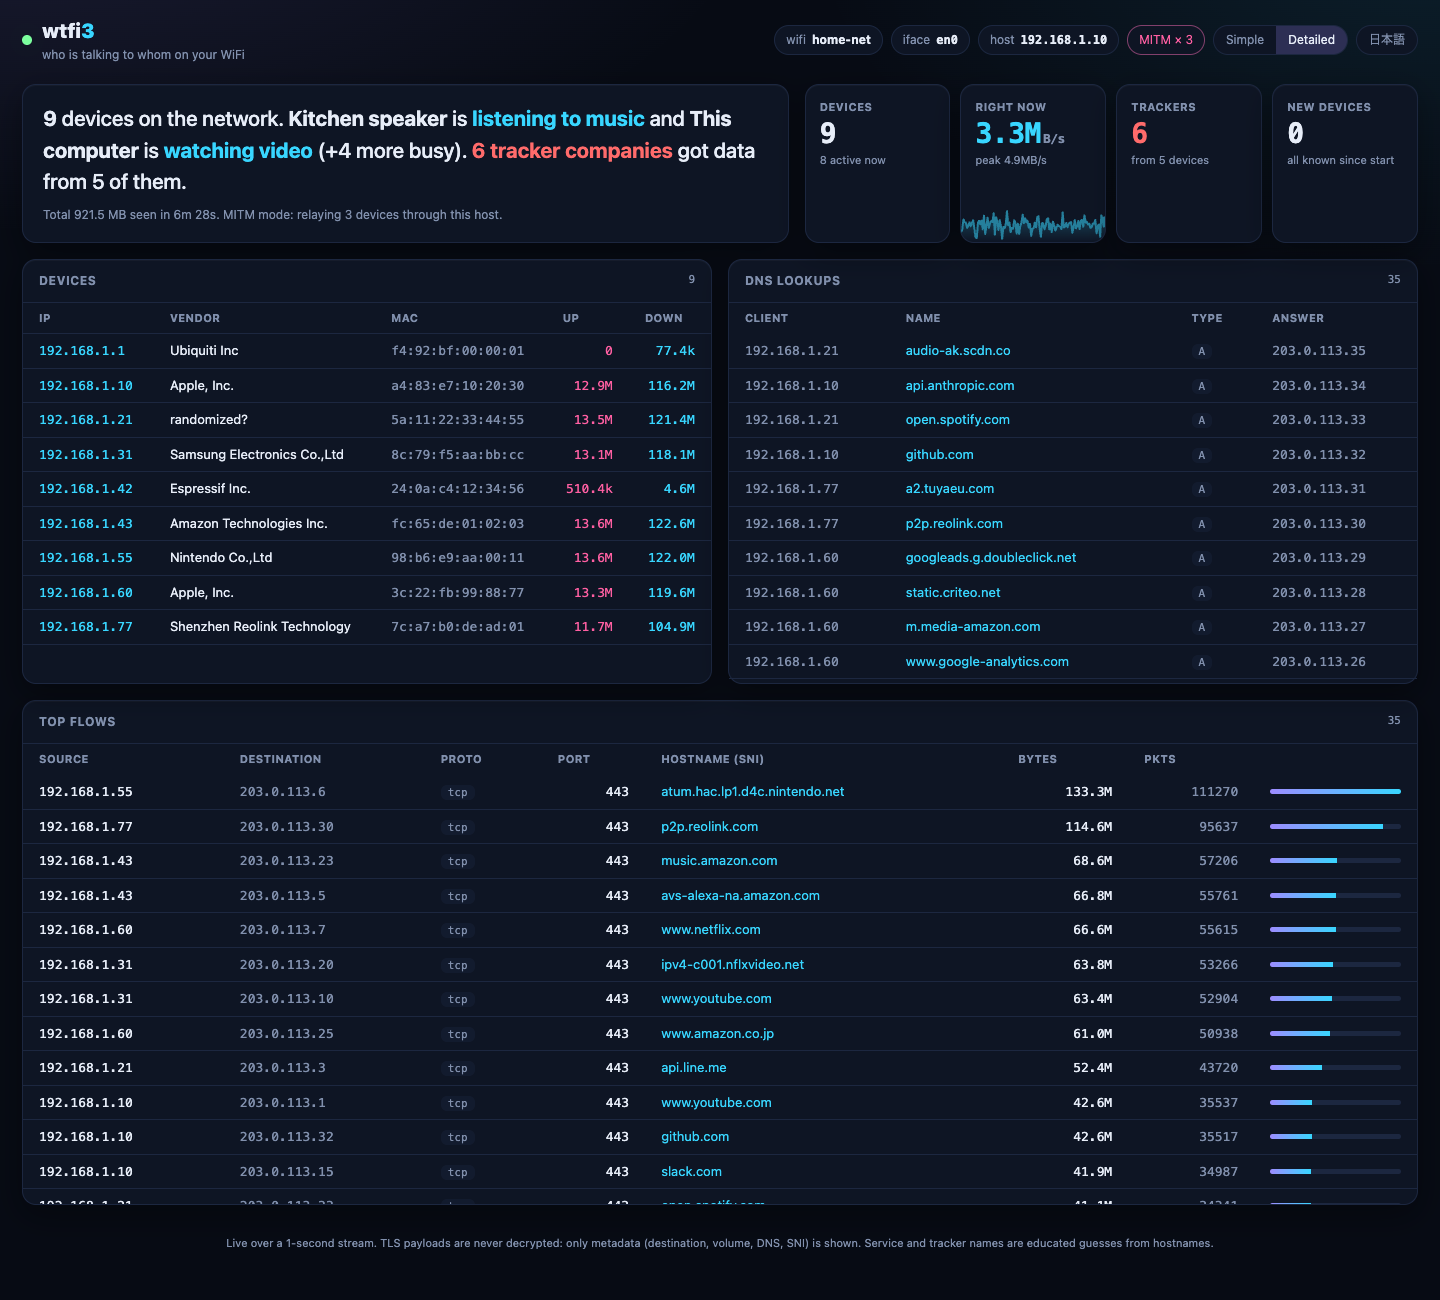
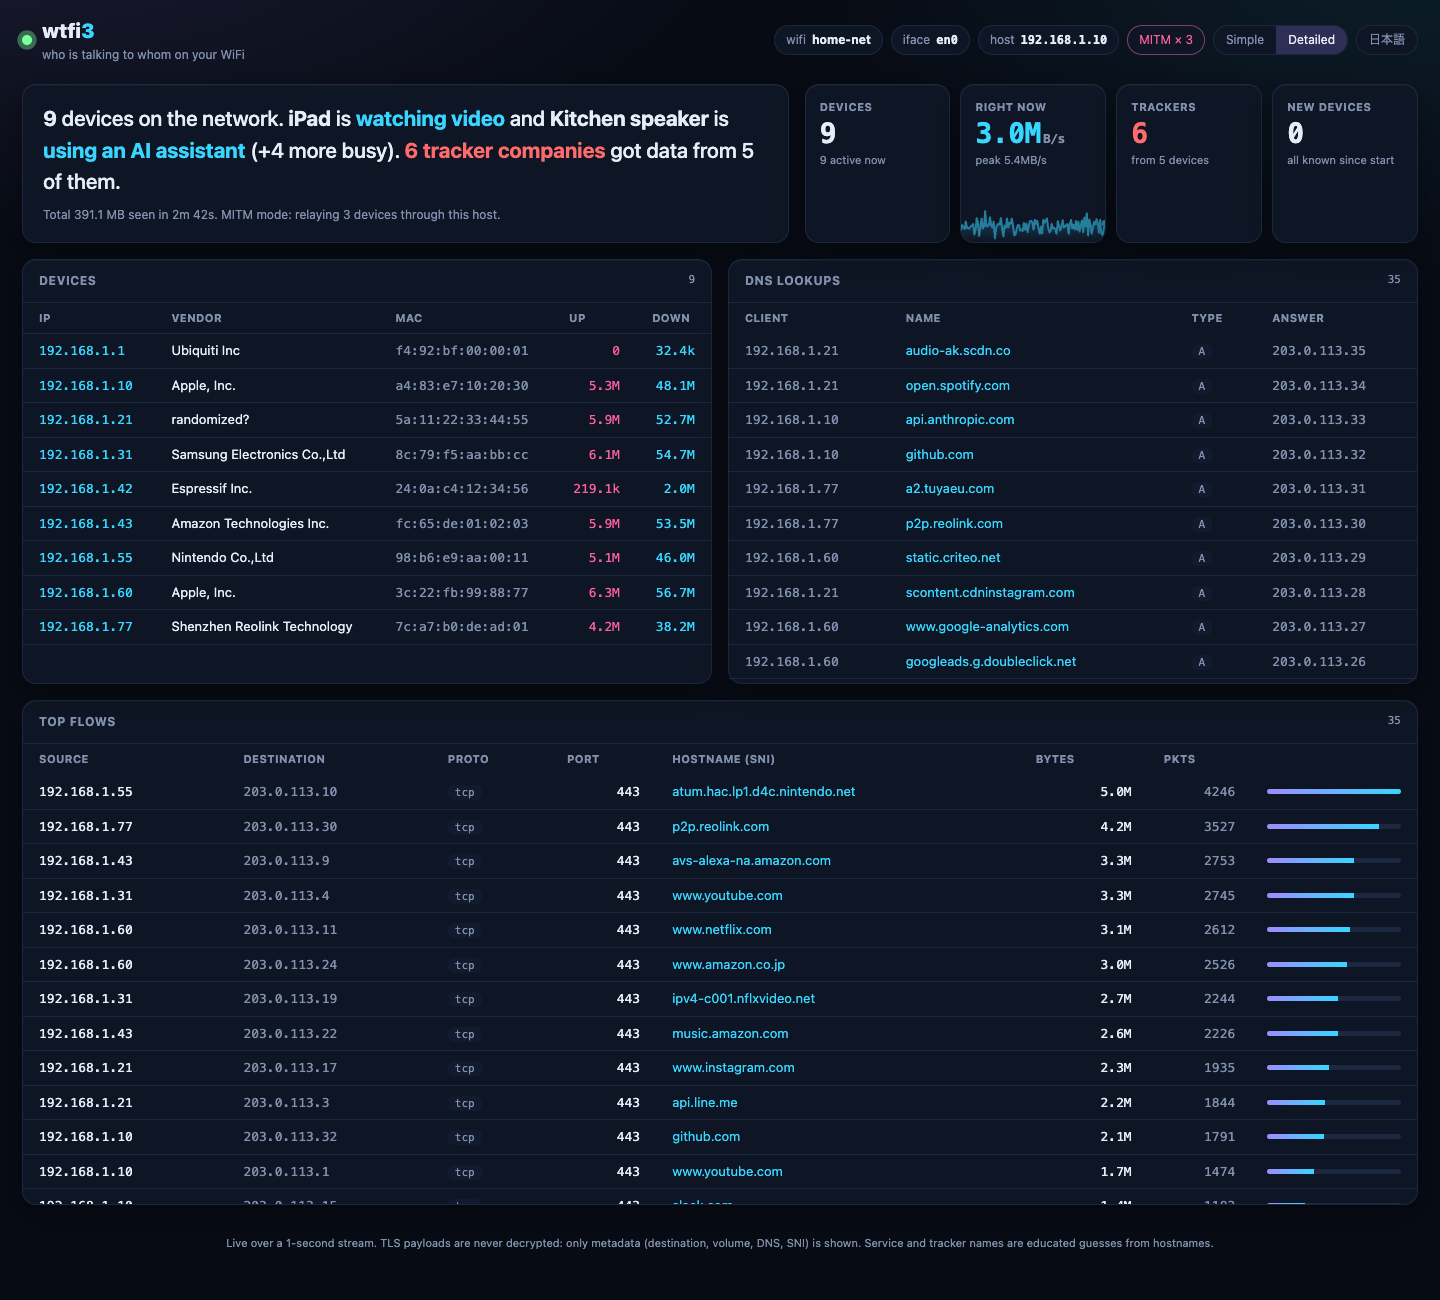
fix(web): diff per flow, keep confirmed trackers, and time rates by the server clock

diff --git a/internal/web/index.html b/internal/web/index.html
@@ -13,6 +13,8 @@
     --down:#38d6ff; --up:#ff5fa2; --live:#7cff9e; --warn:#ffb547; --bad:#ff6b6b; --ok:#4ade80;
     --accent:#9d8cff; --glow:rgba(56,214,255,.35);
     --radius:14px; --shadow:0 1px 0 rgba(255,255,255,.03) inset, 0 10px 30px rgba(0,0,0,.35);
+    --t-phone:#38d6ff; --t-tablet:#5ac8fa; --t-laptop:#9d8cff; --t-tv:#ff7eb6; --t-speaker:#4ade80; --t-iot:#ffb547;
+    --t-camera:#ff6b6b; --t-console:#c084fc; --t-router:#94a3b8; --t-printer:#94a3b8; --t-unknown:#8190ad;
     --mono:ui-monospace,"SF Mono","JetBrains Mono",Menlo,Consolas,monospace;
   }
   @media (prefers-color-scheme: light){
@@ -23,6 +25,8 @@
       --down:#0089bf; --up:#d02f76; --live:#14a345; --warn:#bd7100; --bad:#d63031; --ok:#15924a;
       --accent:#5a48d6; --glow:rgba(0,137,191,.25);
       --shadow:0 1px 2px rgba(16,24,40,.05), 0 8px 24px rgba(16,24,40,.06);
+      --t-phone:#0284c7; --t-tablet:#0369a1; --t-laptop:#6d5ce0; --t-tv:#db2777; --t-speaker:#15803d; --t-iot:#b45309;
+      --t-camera:#dc2626; --t-console:#9333ea; --t-router:#64748b; --t-printer:#64748b; --t-unknown:#64748b;
     }
   }
   *{box-sizing:border-box}
@@ -318,8 +322,8 @@ const I18N = {
     guessed:"guessed from vendor and traffic; click to change",
     g_none:"0 trackers", g_one:"1 tracker", g_many:"{n} trackers",
     trk_h:"Phones home to", trk_h_dns:"Looked up (no traffic seen)",
-    tracker_help:"Third-party analytics, ad, attribution, crash, and IoT-telemetry endpoints this device contacted, named by operator from DNS/SNI. Faded chips were only resolved by DNS, not confirmed by traffic. TLS content is never decrypted.",
-    dns_only:"DNS only",
+    tracker_help:"Third-party analytics, ad, attribution, crash, and IoT-telemetry endpoints this device contacted, named by operator from DNS/SNI. Byte counts are what the device sent (↑). Faded chips were only resolved by DNS, not confirmed by traffic. TLS content is never decrypted.",
+    dns_only:"DNS only", sent:"{v} sent",
     lookups:"DNS lookups", flows:"Top flows",
     th_ip:"IP", th_vendor:"vendor", th_mac:"MAC", th_up:"up", th_down:"down",
     th_client:"client", th_name:"name", th_type:"type", th_answer:"answer",
@@ -376,8 +380,8 @@ const I18N = {
     guessed:"メーカーと通信内容からの推測。クリックで変更",
     g_none:"トラッカー 0", g_one:"トラッカー 1", g_many:"トラッカー {n}",
     trk_h:"送信先トラッカー", trk_h_dns:"名前解決のみ（通信は未観測）",
-    tracker_help:"この端末が接続したサードパーティの解析・広告・アトリビューション・クラッシュ・IoT テレメトリのエンドポイント。DNS/SNI から運営者名で表示。薄いものは名前解決のみで通信は未確認。TLS の中身は復号しません。",
-    dns_only:"名前解決のみ",
+    tracker_help:"この端末が接続したサードパーティの解析・広告・アトリビューション・クラッシュ・IoT テレメトリのエンドポイント。DNS/SNI から運営者名で表示。バイト数は端末が送った量（↑）。薄いものは名前解決のみで通信は未確認。TLS の中身は復号しません。",
+    dns_only:"名前解決のみ", sent:"{v} 送信",
     lookups:"DNS名前解決", flows:"フロー上位",
     th_ip:"IP", th_vendor:"メーカー", th_mac:"MAC", th_up:"上り", th_down:"下り",
     th_client:"端末", th_name:"名前", th_type:"種別", th_answer:"応答",
@@ -534,8 +538,7 @@ const CATCOLOR = {video:"#ff5c8a",shopping:"#f59e0b",email:"#6c8cff",social:"#a7
 // Coarse types in the spirit of Fing's device groups. Icons are hand-drawn
 // strokes (no third-party icon set or brand marks).
 const TYPES = ["phone","tablet","laptop","tv","speaker","iot","camera","console","router","printer","unknown"];
-const TYPECOLOR = {phone:"#38d6ff",tablet:"#5ac8fa",laptop:"#9d8cff",tv:"#ff7eb6",speaker:"#4ade80",iot:"#ffb547",
-  camera:"#ff6b6b",console:"#c084fc",router:"#94a3b8",printer:"#94a3b8",unknown:"#8190ad"};
+const TYPECOLOR = Object.fromEntries(TYPES.map(x=>[x,`var(--t-${x})`])); // themed in CSS
 const ICON = {
   phone:'<rect x="7" y="2.5" width="10" height="19" rx="2.5"/><path d="M11 18.5h2"/>',
   tablet:'<rect x="4.5" y="3" width="15" height="18" rx="2"/><path d="M11 18h2"/>',
@@ -601,17 +604,22 @@ let view = (()=>{ try{ return localStorage.getItem("wtfi3_view")||"simple"; }cat
 const T = () => I18N[lang];
 
 const HIST = {};      // ip -> [{t, cat|null}] dominant category per tick, last 60
-const PREVCAT = {};   // ip -> {cat: cumulative bytes} at previous tick
-const DPREV = {};     // ip -> {tx, rx, t}
-const EDGEPREV = {};  // edge key -> cumulative bytes at previous tick
+const DPREV = {};     // ip -> {tx, rx, up} at previous tick (up = server uptime)
+let FPREV = {};       // flow key -> bytes at previous tick, for per-flow deltas
 const EDGEHOT = {};   // edge key -> ms timestamp of the last tick it moved bytes
+const CONF = {};      // ip -> {tracker label: {kind, bytes}}: confirmed contacts, sticky
 const ACTLAST = {};   // ip|cat -> ms timestamp the category last moved bytes
 const SEEN = {dev:{}, trk:{}};
 const FEED = [];      // {id, t, kind, key, p}
 let feedSeq = 0, feedShown = 0, tickN = 0, lastSpike = 0, openWarned = false;
-let LAST = null, MODEL = null, HOLD = false, focusKey = null, lastMsg = 0, ORDER = [];
+let LAST = null, MODEL = null, holdSince = 0, focusKey = null, lastMsg = 0, ORDER = [];
 const HIST_MAX = 60;
 
+function baseName(d, selfIP, gw){
+  if(d.ip===selfIP) return T().this_dev;
+  if(d.ip===gw) return T().router;
+  return d.vendor && !d.vendor.startsWith("randomized") && !/^[0-9a-f:]+$/i.test(d.vendor) ? d.vendor : T().unknown_dev;
+}
 function storeSet(obj, key, val, name){ if(val) obj[key]=val; else delete obj[key]; save(name, obj); }
 
 // ---- model -------------------------------------------------------------------------
@@ -624,53 +632,68 @@ function buildModel(s){
     devs[d.ip]={ip:d.ip, mac:d.mac||"", vendor:d.vendor||"", tx:d.tx_bytes||0, rx:d.rx_bytes||0, isnew:!!d.new,
       services:{}, cats:{}, trackers:{}};
   });
-  const add=(ip, host, bytes)=>{
+  // moved is the bytes this flow carried since the previous tick. The snapshot
+  // holds only the top flows and evicts idle ones, so comparing totals would
+  // fire whenever a flow re-enters the list; per-flow deltas do not.
+  const add=(ip, host, bytes, moved)=>{
     const d=devs[ip];
     if(!d||!host) return; // only attribute to known LAN devices
     bytes=bytes||0;
     const {service,cat}=classify(host), sk=cat+"|"+service;
     const tr=trackerOf(host);
     // A tracker host is listed once, under trackers, not again as a service chip.
-    if(tr){ const t=d.trackers[tr.label]||(d.trackers[tr.label]={kind:tr.kind,bytes:0}); t.bytes+=bytes; }
+    if(tr){
+      const t=d.trackers[tr.label]||(d.trackers[tr.label]={kind:tr.kind,bytes:0}); t.bytes+=bytes;
+      if(bytes>0){
+        const c=CONF[ip]||(CONF[ip]={}), k=c[tr.label]||(c[tr.label]={kind:tr.kind,bytes:0});
+        k.bytes=Math.max(k.bytes, t.bytes);
+      }
+    }
     else {
       const sv=d.services[sk]||(d.services[sk]={service,cat,bytes:0});
       sv.bytes+=bytes;
     }
-    const c=d.cats[cat]||(d.cats[cat]={bytes:0});
-    c.bytes+=bytes;
+    const c=d.cats[cat]||(d.cats[cat]={bytes:0,moved:0});
+    c.bytes+=bytes; c.moved+=moved;
     // A tracker host becomes a tracker node on the map; everything else a service node.
     const nk = tr ? "T:"+tr.label : "S:"+sk;
     const n=nodes[nk]||(nodes[nk]={key:nk, label:tr?tr.label:service, cat:tr?"tracker":cat, trk:!!tr, cum:0});
     n.cum+=bytes;
     const ek=ip+"|"+nk;
-    const e=edges[ek]||(edges[ek]={key:ek, ip, node:nk, cum:0});
-    e.cum+=bytes;
+    const e=edges[ek]||(edges[ek]={key:ek, ip, node:nk, cum:0, moved:0});
+    e.cum+=bytes; e.moved+=moved;
   };
-  (s.flows||[]).forEach(f=>{ if(f.sni) add(f.src, f.sni, f.bytes); });
-  (s.dns||[]).forEach(e=>add(e.client, e.name, 0));
+  const fnext={};
+  (s.flows||[]).forEach(f=>{
+    const p=FPREV[f.key], moved=p===undefined ? 0 : Math.max(0, f.bytes-p);
+    fnext[f.key]=f.bytes;
+    if(f.sni) add(f.src, f.sni, f.bytes, moved);
+  });
+  FPREV=fnext; // rebuilt each tick, so it never outgrows the snapshot
+  (s.dns||[]).forEach(e=>add(e.client, e.name, 0, 0));
 
-  // Edge liveness: a tick in which an edge's cumulative bytes grew marks it hot.
+  // Edge liveness: a tick in which an edge carried bytes marks it hot.
   Object.values(edges).forEach(e=>{
-    const prev=EDGEPREV[e.key];
-    if(prev!==undefined && e.cum>prev) EDGEHOT[e.key]=now;
-    EDGEPREV[e.key]=e.cum;
+    if(e.moved>0) EDGEHOT[e.key]=now;
     e.hotAge = EDGEHOT[e.key] ? now-EDGEHOT[e.key] : Infinity;
   });
+  Object.keys(EDGEHOT).forEach(k=>{ if(!edges[k]) delete EDGEHOT[k]; });
 
   const list=Object.values(devs).map(d=>{
     const nickKey=(d.mac && /[0-9a-f]{2}:/i.test(d.mac)) ? d.mac : d.ip;
-    const base = d.ip===selfIP ? T().this_dev : d.ip===gw ? T().router
-      : (d.vendor && !d.vendor.startsWith("randomized") && !/^[0-9a-f:]+$/i.test(d.vendor) ? d.vendor : T().unknown_dev);
     d.nickKey=nickKey;
-    d.name=NICK[nickKey]||base;
+    d.name=NICK[nickKey]||baseName(d, selfIP, gw);
     d.type=TYPEOVR[nickKey]||guessType(d, selfIP, gw);
     d.guessed=!TYPEOVR[nickKey];
-    // live rate
-    const p=DPREV[d.ip], dt=p?Math.max(.5,(now-p.t)/1000):1;
+    // live rate, timed by the server's clock so a late SSE message does not
+    // read as a burst
+    const up=s.uptime_sec||0, p=DPREV[d.ip], dt=p?Math.max(.5, up-p.up):1;
     d.rateRx = p ? Math.max(0,(d.rx-p.rx)/dt) : 0;
     d.rateTx = p ? Math.max(0,(d.tx-p.tx)/dt) : 0;
-    DPREV[d.ip]={tx:d.tx, rx:d.rx, t:now};
-    d.confirmed=Object.keys(d.trackers).filter(l=>d.trackers[l].bytes>0);
+    DPREV[d.ip]={tx:d.tx, rx:d.rx, up};
+    // Confirmed trackers stay counted after their flow is evicted from the snapshot.
+    d.conf=CONF[d.ip]||{};
+    d.confirmed=Object.keys(d.conf);
     return d;
   });
   return {list, byIP:devs, nodes, edges, selfIP, gw};
@@ -681,19 +704,15 @@ function buildModel(s){
 function updateHistory(m){
   const t=Date.now();
   m.list.forEach(d=>{
-    const prev=PREVCAT[d.ip], cur={};
     let best=null, bestDelta=0;
     d.moving=[];
     Object.keys(d.cats).forEach(c=>{
-      cur[c]=d.cats[c].bytes;
-      if(!prev) return;
-      const delta=cur[c]-(prev[c]||0);
+      const delta=d.cats[c].moved;
       if(delta>0 && !NOISE.has(c)){
         d.moving.push(c);
         if(delta>bestDelta){ bestDelta=delta; best=c; }
       }
     });
-    PREVCAT[d.ip]=cur;
     const h=HIST[d.ip]||(HIST[d.ip]=[]);
     h.push({t, cat:best});
     if(h.length>HIST_MAX) h.splice(0,h.length-HIST_MAX);
@@ -903,7 +922,7 @@ function renderMap(m){
     const sub = hot ? `↓${fmtB(d.rateRx)} ↑${fmtB(d.rateTx)}` : T().type[d.type];
     return `<g class="node${hot?" hot":""}" data-k="${esc(d.ip)}" data-dev="1">
       <circle class="ring" cx="${xL}" cy="${y}" r="9" style="stroke:${TYPECOLOR[d.type]};animation-delay:${phase}s"/>
-      <circle class="core" cx="${xL}" cy="${y}" r="8" fill="${TYPECOLOR[d.type]}"/>
+      <circle class="core" cx="${xL}" cy="${y}" r="8" style="fill:${TYPECOLOR[d.type]}"/>
       <text x="${xL-16}" y="${y-1}" text-anchor="end">${esc(trunc(d.name,maxChars))}</text>
       <text class="sub mono" x="${xL-16}" y="${y+12}" text-anchor="end">${esc(sub)}</text></g>`;
   }).join("");
@@ -915,7 +934,7 @@ function renderMap(m){
     const sub = n.trk ? T().lg_trk : T().cat[n.cat];
     return `<g class="node" data-k="${esc(n.key)}">${shape}
       <text x="${xR+14}" y="${y-1}">${esc(trunc(n.label,maxChars))}</text>
-      <text class="sub" x="${xR+14}" y="${y+12}">${esc(sub)}${n.cum?" · "+fmtB(n.cum)+"B":""}</text></g>`;
+      <text class="sub" x="${xR+14}" y="${y+12}">${esc(sub)}${n.cum?" · ↑"+fmtB(n.cum)+"B":""}</text></g>`;
   }).join("");
   svg.setAttribute("viewBox",`0 0 ${W} ${H}`);
   svg.setAttribute("height",H);
@@ -968,12 +987,14 @@ function card(d, maxTot){
   const grade = (services.length || Object.keys(d.trackers).length)
     ? `<span class="grade ${nc===0?"g-ok":nc<5?"g-warn":"g-bad"}" title="${esc(t.tracker_help)}">${nc===0?t.g_none:nc===1?t.g_one:fmt(t.g_many,{n:nc})}</span>` : "";
   const chips=services.slice(0,7).map(sv=>
-    `<span class="sc${sv.bytes?"":" dnsonly"}" style="--c:${CATCOLOR[sv.cat]}" title="${esc(t.cat[sv.cat])}${sv.bytes?" · "+fmtB(sv.bytes)+"B":" · "+esc(t.dns_only)}">${esc(sv.service)}</span>`).join("")
+    `<span class="sc${sv.bytes?"":" dnsonly"}" style="--c:${CATCOLOR[sv.cat]}" title="${esc(t.cat[sv.cat])}${sv.bytes?" · "+esc(fmt(t.sent,{v:fmtB(sv.bytes)+"B"})):" · "+esc(t.dns_only)}">${esc(sv.service)}</span>`).join("")
     + (services.length>7?`<span class="mut">+${services.length-7}</span>`:"");
-  const trk=Object.keys(d.trackers).map(l=>({label:l,...d.trackers[l]})).sort((a,b)=>b.bytes-a.bytes);
+  const trk=[...Object.keys(d.conf).map(l=>({label:l,...d.conf[l]})),
+    ...Object.keys(d.trackers).filter(l=>!d.conf[l]).map(l=>({label:l,kind:d.trackers[l].kind,bytes:0}))]
+    .sort((a,b)=>b.bytes-a.bytes);
   const trkBlock = trk.length ? `<div class="trk${nc?"":" dnsonly"}" title="${esc(t.tracker_help)}">
       <span class="h">${nc?t.trk_h:t.trk_h_dns}</span>
-      ${trk.slice(0,6).map(x=>`<span class="tc${x.bytes?"":" dns"}">${esc(x.label)}${x.bytes?` <em>${fmtB(x.bytes)}B</em>`:""}</span>`).join("")}
+      ${trk.slice(0,6).map(x=>`<span class="tc${x.bytes?"":" dns"}">${esc(x.label)}${x.bytes?` <em>↑${fmtB(x.bytes)}B</em>`:""}</span>`).join("")}
       ${trk.length>6?`<span class="mut">+${trk.length-6}</span>`:""}
     </div>` : "";
   const live=d.rateRx+d.rateTx>0;
@@ -1000,7 +1021,9 @@ function card(d, maxTot){
   </div>`;
 }
 function renderCards(m){
-  if(HOLD) return; // a type picker is open; do not yank it out from under the user
+  // A type picker is open: do not yank it out from under the user. Bounded, so
+  // a picker closed without a change (Esc, same value) cannot freeze the cards.
+  if(document.activeElement && document.activeElement.matches(".typesel") && Date.now()-holdSince<5000) return;
   const wrap=el("cards");
   if(!m.list.length){ wrap.innerHTML=`<div class="panel empty">${T().none_dev}</div>`; return; }
   // Re-rank only every 10 ticks (or when the set changes) so cards do not jump around.
@@ -1019,13 +1042,12 @@ el("cards").addEventListener("click", e=>{
   storeSet(NICK, k, v.trim(), "wtfi3_nick");
   if(LAST) render(LAST);
 });
-el("cards").addEventListener("focusin", e=>{ if(e.target.matches(".typesel")) HOLD=true; });
-el("cards").addEventListener("focusout", e=>{ if(e.target.matches(".typesel")){ HOLD=false; } });
+el("cards").addEventListener("focusin", e=>{ if(e.target.matches(".typesel")) holdSince=Date.now(); });
 el("cards").addEventListener("change", e=>{
   const s=e.target.closest(".typesel");
   if(!s) return;
   storeSet(TYPEOVR, s.dataset.key, s.value, "wtfi3_type");
-  HOLD=false; s.blur();
+  s.blur();
   if(LAST) render(LAST);
 });
 
@@ -1080,9 +1102,7 @@ function render(s, fresh){
   } else if(MODEL){
     // re-render after a toggle/rename: refresh names and types without advancing time
     MODEL.list.forEach(d=>{
-      const base=d.ip===MODEL.selfIP?T().this_dev:d.ip===MODEL.gw?T().router
-        :(d.vendor&&!d.vendor.startsWith("randomized")&&!/^[0-9a-f:]+$/i.test(d.vendor)?d.vendor:T().unknown_dev);
-      d.name=NICK[d.nickKey]||base;
+      d.name=NICK[d.nickKey]||baseName(d, MODEL.selfIP, MODEL.gw);
       d.type=TYPEOVR[d.nickKey]||guessType(d, MODEL.selfIP, MODEL.gw);
       d.guessed=!TYPEOVR[d.nickKey];
     });
